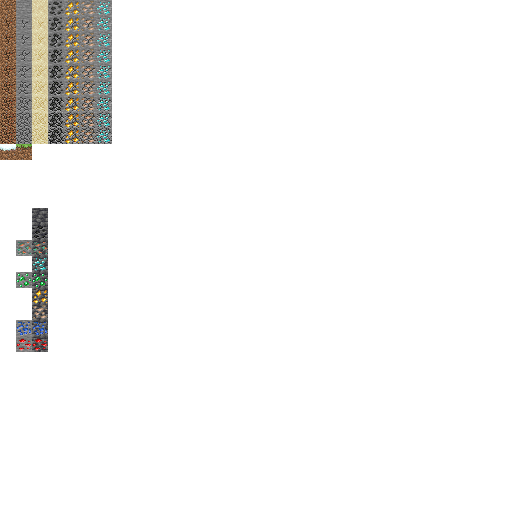
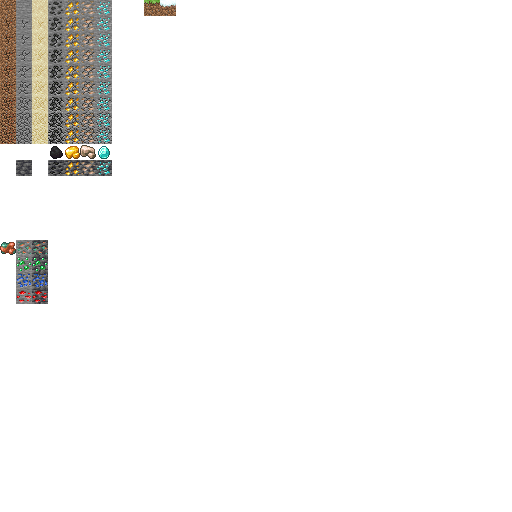
items package

diff --git a/terr/terrain.go b/terr/terrain.go
@@ -8,6 +8,7 @@ import (
 	"kar/engine/io"
 	"kar/engine/mathutil"
 	"kar/engine/vec"
+	"kar/items"
 	"kar/res"
 	"kar/types"
 	"slices"
@@ -44,29 +45,29 @@ func (tr *Terrain) Generate() {
 		for x := 0; x < tr.TerrainImg.Bounds().Dx(); x++ {
 			noiseValue := tr.Eval2WithOptions(x, y)
 			if noiseValue < 0.33 {
-				tr.TerrainImg.SetGray(x, y, color.Gray{Y: uint8(res.BlockAir)})
+				tr.TerrainImg.SetGray(x, y, color.Gray{Y: uint8(items.Air)})
 			}
 			if mathutil.InRange(noiseValue, 0.33, 0.66) {
-				tr.TerrainImg.SetGray(x, y, color.Gray{Y: uint8(res.BlockDirt)})
+				tr.TerrainImg.SetGray(x, y, color.Gray{Y: uint8(items.Dirt)})
 			}
 			if noiseValue > 0.66 {
-				tr.TerrainImg.SetGray(x, y, color.Gray{Y: uint8(res.BlockStone)})
+				tr.TerrainImg.SetGray(x, y, color.Gray{Y: uint8(items.Stone)})
 			}
 		}
 	}
 }
 
-func (tr *Terrain) SpawnChunk(chunkCoord image.Point, blockSpawnCallbackFunc func(pos vec.Vec2, chunkCoord image.Point, blockType types.BlockType)) {
+func (tr *Terrain) SpawnChunk(chunkCoord image.Point, blockSpawnCallbackFunc func(pos vec.Vec2, chunkCoord image.Point, blockType types.ItemType)) {
 	chunksize := int(tr.ChunkSize)
 	for y := 0; y < chunksize; y++ {
 		for x := 0; x < chunksize; x++ {
 			blockX := x + (chunksize * chunkCoord.X)
 			blockY := y + (chunksize * chunkCoord.Y)
-			blockType := types.BlockType(tr.TerrainImg.GrayAt(blockX, blockY).Y)
+			blockType := types.ItemType(tr.TerrainImg.GrayAt(blockX, blockY).Y)
 			blockPos := vec.Vec2{float64(blockX), float64(blockY)}
 			blockPos = blockPos.Scale(tr.BlockSize)
 			blockPos.X += res.BlockSize / 2
-			if blockType != res.BlockAir {
+			if blockType != items.Air {
 				blockSpawnCallbackFunc(blockPos.NegY(), chunkCoord, blockType)
 			}
 		}
@@ -88,7 +89,7 @@ func (tr *Terrain) EmptyBlockInChunk(chunkCoord image.Point) (bool, image.Point)
 }
 
 // Spawn/Destroy chunks
-func (tr *Terrain) UpdateChunks(playerChunk image.Point, blockSpawnCallbackFunc func(pos vec.Vec2, chunkCoord image.Point, blockType types.BlockType)) {
+func (tr *Terrain) UpdateChunks(playerChunk image.Point, blockSpawnCallbackFunc func(pos vec.Vec2, chunkCoord image.Point, blockType types.ItemType)) {
 	playerChunks := GetPlayerChunks(playerChunk)
 	intersectionChunks := FindIntersection(playerChunks, tr.LoadedChunks)
 

diff --git a/res/resources.go b/res/resources.go
@@ -11,6 +11,7 @@ import (
 	"kar/engine/io"
 	"kar/engine/util"
 	"kar/engine/vec"
+	"kar/items"
 	"kar/types"
 
 	"github.com/hajimehoshi/ebiten/v2"
@@ -34,16 +35,16 @@ var (
 
 	ScreenSizeF = vec.Vec2{float64(ScreenSize.X), float64(ScreenSize.Y)}
 
-	BlockMaxHealth = map[types.BlockType]float64{
-		BlockDirt:  5.0,
-		BlockStone: 10.0,
+	BlockMaxHealth = map[types.ItemType]float64{
+		items.Dirt:  5.0,
+		items.Stone: 10.0,
 	}
 )
 
 var (
 	AtlasPlayer = io.LoadEbitenImageFromFS(assets, "assets/player.png")
 	AtlasBlock  = io.LoadEbitenImageFromFS(assets, "assets/blocks.png")
-	BlockFrames = make(map[types.BlockType][]*ebiten.Image)
+	BlockFrames = make(map[types.ItemType][]*ebiten.Image)
 )
 
 var (
@@ -98,7 +99,7 @@ var (
 )
 
 func init() {
-	BlockFrames[BlockStone] = util.SubImages(AtlasBlock, 16, 0, 16, 16, 9, true)
-	BlockFrames[BlockDirt] = util.SubImages(AtlasBlock, 0, 0, 16, 16, 9, true)
+	BlockFrames[items.Stone] = util.SubImages(AtlasBlock, 16, 0, 16, 16, 9, true)
+	BlockFrames[items.Dirt] = util.SubImages(AtlasBlock, 0, 0, 16, 16, 9, true)
 	StatsTextOptions.ColorScale.ScaleWithColor(colornames.White)
 }

diff --git a/items/items.go b/items/items.go
@@ -1,0 +1,54 @@
+package items
+
+import "kar/types"
+
+const (
+	Air types.ItemType = iota
+	Dirt
+	Stone
+	CoalOre
+	GoldOre
+	IronOre
+	DiamondOre
+	DeepSlateStone
+	DeepSlateCoalOre
+	DeepSlateGoldOre
+	DeepSlateIronOre
+	DeepSlateDiamondOre
+
+	WoodShovel
+	StoneShovel
+	IronShovel
+
+	GoldenAxe
+	WoodAxe
+	StoneAxe
+	IronAxe
+	DiamondAxe
+	NetheriteAxe
+
+	GoldenPickaxe
+	WoodPickaxe
+	StonePickaxe
+	IronPickaxe
+	DiamondPickaxe
+	NetheritePickaxe
+
+	GoldenSword
+	WoodSword
+	StoneSword
+	IronSword
+	DiamondSword
+	NetheriteSword
+)
+
+/*
+
+Golden
+Wood
+Stone
+Iron
+Diamond
+Netherite
+
+*/

diff --git a/system/sys_utils.go b/system/sys_utils.go
@@ -106,7 +106,7 @@ func DestroyZeroHealth(e *donburi.Entry) {
 func DestroyZeroHealthSetMapBlockState(e *donburi.Entry) {
 	if comp.Health.Get(e).Health <= 0 {
 		if e.HasComponent(comp.Block) {
-			blockPos := comp.Body.Get(e).Position().NegY().Point().Div(50)
+			blockPos := comp.Body.Get(e).Position().NegY().Point().Div(int(res.BlockSize))
 			res.Terrain.SetGray(blockPos.X, blockPos.Y, color.Gray{0})
 			DestroyEntryWithBody(e)
 		}

diff --git a/arche/archetypes.go b/arche/archetypes.go
@@ -90,7 +90,7 @@ func SpawnWall(boxCenter vec.Vec2, boxW, boxH float64) *donburi.Entry {
 	return entry
 }
 
-func SpawnBlock(pos vec.Vec2, chunkCoord image.Point, blockType types.BlockType) {
+func SpawnBlock(pos vec.Vec2, chunkCoord image.Point, blockType types.ItemType) {
 	e := SpawnWall(pos, float64(res.BlockSize), float64(res.BlockSize))
 	e.AddComponent(comp.Health)
 	e.AddComponent(comp.Block)

diff --git a/res/constant.go b/res/constant.go
@@ -2,26 +2,11 @@ package res
 
 import (
 	"kar/engine/cm"
-	"kar/types"
 	"time"
 )
 
 const TimerTick time.Duration = time.Second / 60
 const DeltaTime float64 = 1.0 / 60.0
-
-const (
-	ItemSnowball types.ItemType = iota
-	ItemBomb
-	ItemKey
-	ItemPotion
-	ItemAxe
-	ItemShovel
-)
-const (
-	BlockAir types.BlockType = iota
-	BlockDirt
-	BlockStone
-)
 
 // Collision Bitmask Category
 const (

diff --git a/types/types.go b/types/types.go
@@ -16,7 +16,6 @@ type ISystem interface {
 }
 
 type ItemType int
-type BlockType uint8
 
 type DataAI struct {
 	Target         *donburi.Entry
@@ -48,7 +47,7 @@ type DataInventory struct {
 type DataBlock struct {
 	// to mark which chunk the block belongs to
 	ChunkCoord image.Point
-	BlockType  BlockType
+	BlockType  ItemType
 }
 type DataHealth struct {
 	Health    float64
